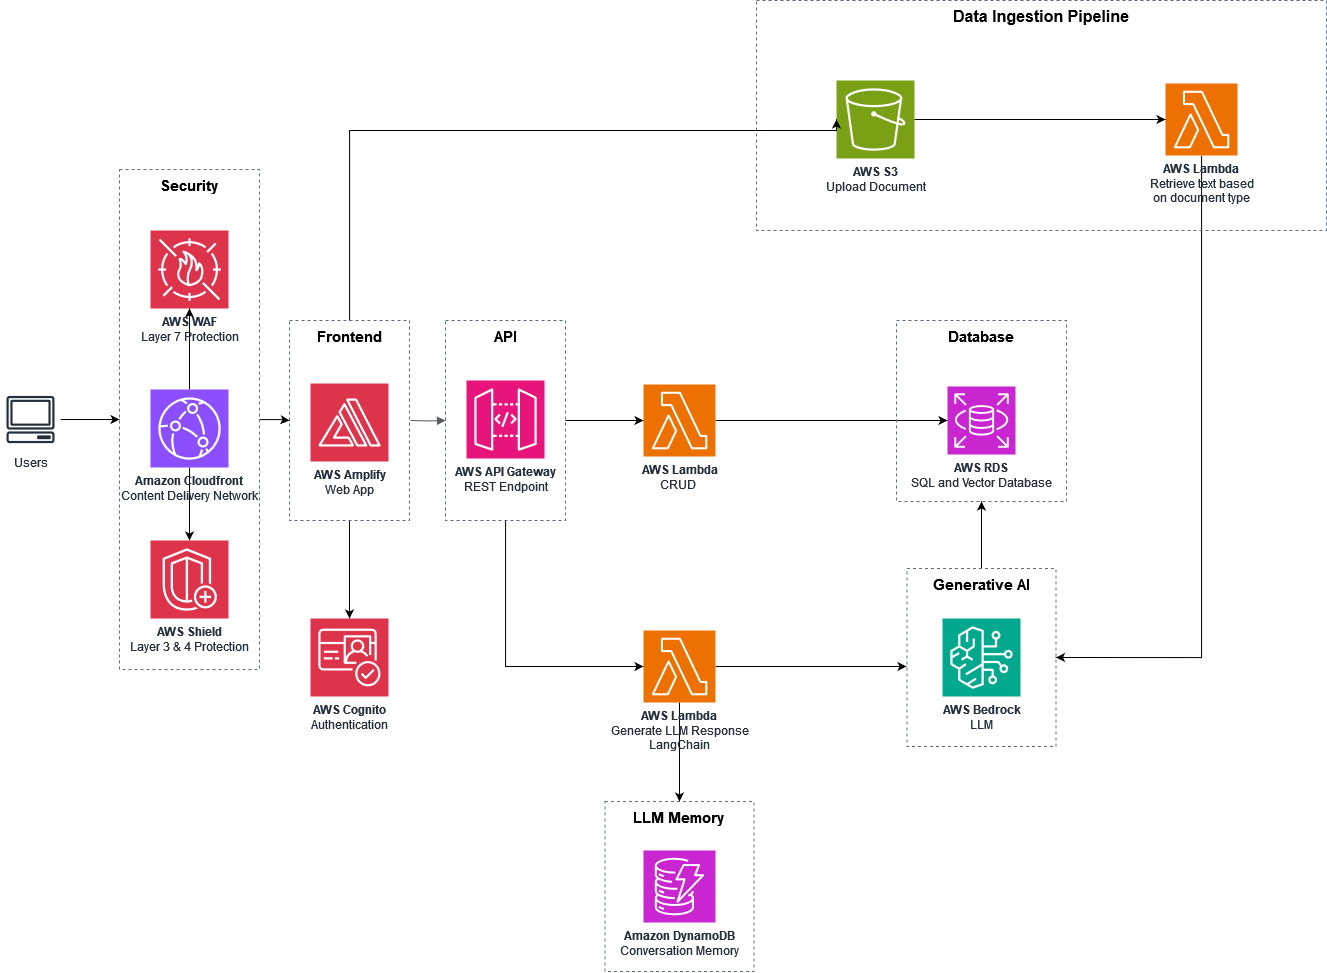
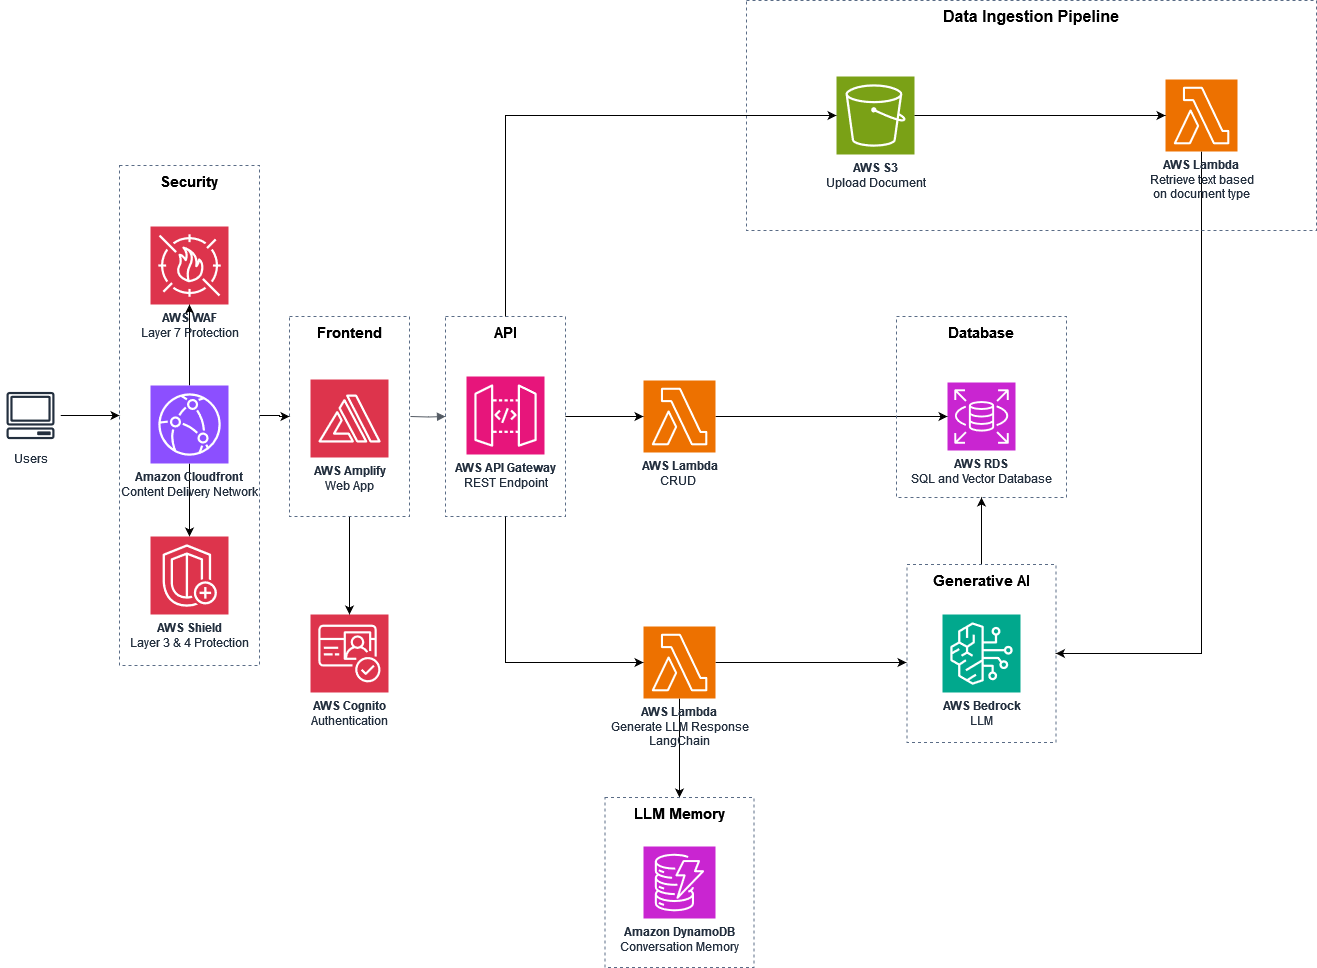
fix: remove cloudfront + waf - already in amplify

diff --git a/cdk/lib/amplify-stack.ts b/cdk/lib/amplify-stack.ts
@@ -8,9 +8,6 @@ import { BuildSpec } from "aws-cdk-lib/aws-codebuild";
 import { Construct } from "constructs";
 import * as yaml from "yaml";
 import { ApiGatewayStack } from "./api-gateway-stack";
-import * as waf from "aws-cdk-lib/aws-wafv2";
-import * as cloudfront from "aws-cdk-lib/aws-cloudfront";
-import * as origins from "aws-cdk-lib/aws-cloudfront-origins";
 
 export class AmplifyStack extends cdk.Stack {
   constructor(
@@ -73,50 +70,5 @@ export class AmplifyStack extends cdk.Stack {
 
     amplifyApp.addBranch('main')
     amplifyApp.addBranch('frontend')
-
-    // // CloudFront distribution
-    // const cloudFrontDistribution = new cloudfront.Distribution(this, 'CloudFrontDistribution', {
-    //   defaultBehavior: {
-    //     origin: new origins.HttpOrigin(`${amplifyApp.defaultDomain}`, {
-    //       originPath: '/build'
-    //     }),
-    //     viewerProtocolPolicy: cloudfront.ViewerProtocolPolicy.REDIRECT_TO_HTTPS,
-    //   },
-    // });
-
-    // // WAF WebACL
-    // const webAcl = new waf.CfnWebACL(this, 'WebACL', {
-    //   defaultAction: { allow: {} },
-    //   scope: 'CLOUDFRONT',
-    //   visibilityConfig: {
-    //     cloudWatchMetricsEnabled: true,
-    //     metricName: 'webACL',
-    //     sampledRequestsEnabled: true,
-    //   },
-    //   rules: [
-    //     {
-    //       name: 'AWS-AWSManagedRulesCommonRuleSet',
-    //       priority: 1,
-    //       overrideAction: { none: {} },
-    //       statement: {
-    //         managedRuleGroupStatement: {
-    //           name: 'AWSManagedRulesCommonRuleSet',
-    //           vendorName: 'AWS'
-    //         }
-    //       },
-    //       visibilityConfig: {
-    //         cloudWatchMetricsEnabled: true,
-    //         metricName: 'AWS-AWSManagedRulesCommonRuleSet',
-    //         sampledRequestsEnabled: true,
-    //       }
-    //     }
-    //   ],
-    // });
-
-    // // Associate WAF with CloudFront
-    // new waf.CfnWebACLAssociation(this, 'WebACLAssociation', {
-    //   resourceArn: cloudFrontDistribution.distributionId,
-    //   webAclArn: webAcl.attrArn,
-    // });
   }
 }

diff --git a/cdk/lambda/studentFunction.js b/cdk/lambda/studentFunction.js
@@ -7,6 +7,7 @@ let { SM_DB_CREDENTIALS, RDS_PROXY_ENDPOINT } = process.env;
 let sqlConnection = global.sqlConnection;
 
 exports.handler = async (event) => {
+  console.log("event",event)
   const response = {
     statusCode: 200,
     headers: {

diff --git a/cdk/lambda/studentAuthorizerFunction.js b/cdk/lambda/studentAuthorizerFunction.js
@@ -39,6 +39,7 @@ async function initializeConnection() {
 }
 
 exports.handler = async (event) => {
+    console.log("event",event)
     if (!jwtVerifier) {
         await initializeConnection();
     }

diff --git a/cdk/lambda/s3UploadTrigger.py b/cdk/lambda/s3UploadTrigger.py
@@ -80,7 +80,7 @@ def insert_file_into_db(module_id, file_name, file_type, file_path, bucket_name)
                 UPDATE "Module_Files"
                 SET s3_bucket_reference = %s,
                 filepath = %s,
-                time_uploaded = %s,
+                time_uploaded = %s
                 WHERE module_id = %s
                 AND filename = %s
                 AND filetype = %s;
